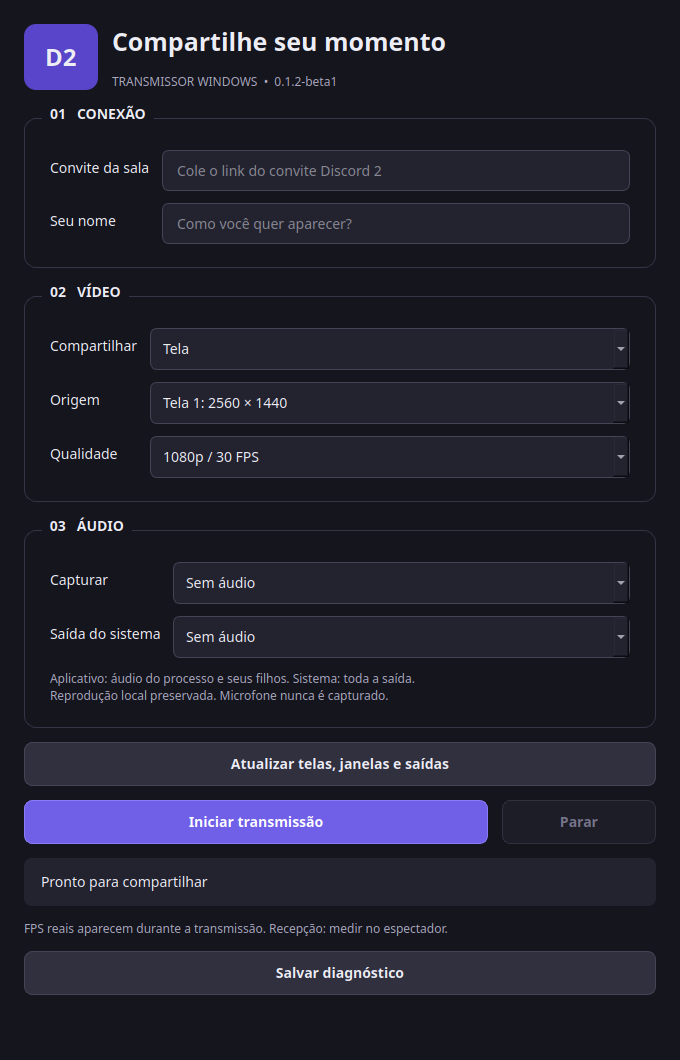
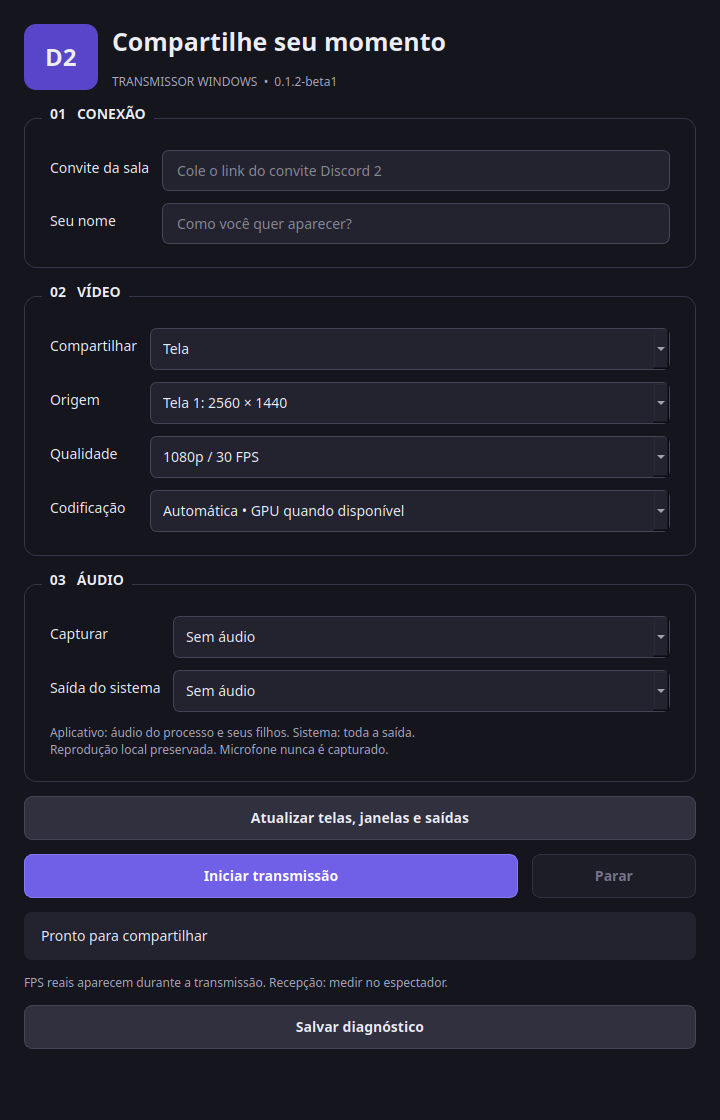
test(windows): verify responsive stop and add encoder compatibility diagnostics

diff --git a/desktop/transmissor-windows/tests/receiver-console.js b/desktop/transmissor-windows/tests/receiver-console.js
@@ -1,0 +1,32 @@
+// Run in the spectator's DevTools Console while the video is visible.
+// Local instrumentation only; no deployment, account access, media or network requests.
+// Returns counters for the video element, not inbound RTP packets.
+(() => {
+  const video = [...document.querySelectorAll('video')].find(v => v.videoWidth > 0);
+  if (!video?.requestVideoFrameCallback) throw Error('Abra o vídeo no espectador primeiro.');
+  let active = true, previous = null, latest = null;
+  const samples = [];
+  function frame(_now, metadata) {
+    latest = metadata;
+    if (active) video.requestVideoFrameCallback(frame);
+  }
+  video.requestVideoFrameCallback(frame);
+  const interval = setInterval(() => {
+    const now = performance.now(), quality = video.getVideoPlaybackQuality();
+    const current = {time: now, presented: latest?.presentedFrames ?? null,
+      total: quality.totalVideoFrames, dropped: quality.droppedVideoFrames};
+    if (previous) {
+      const seconds = (now - previous.time) / 1000;
+      const sample = {seconds: Number(seconds.toFixed(3)), width: video.videoWidth, height: video.videoHeight,
+        videoPipelineFps: (current.total - previous.total) / seconds,
+        presentedFps: current.presented === null || previous.presented === null ? null : (current.presented - previous.presented) / seconds,
+        droppedFrames: current.dropped - previous.dropped,
+        pageVisible: document.visibilityState === 'visible'};
+      samples.push(sample); if (samples.length > 1800) samples.shift();
+      console.table([sample]);
+    }
+    previous = current;
+  }, 2000);
+  window.d2ReceiverDiagnostics = {samples, stop() {active = false; clearInterval(interval);}};
+  return 'Ativo. Parar: d2ReceiverDiagnostics.stop(). Resultados: d2ReceiverDiagnostics.samples. FPS RTP/decodificado: consultar webrtc-internals.';
+})();

diff --git a/desktop/transmissor-windows/d2win/session.py b/desktop/transmissor-windows/d2win/session.py
@@ -19,7 +19,7 @@ class Session:
         self.report = {'schema': 2, 'platform': 'windows', 'profile': config.profile,
                        'acquired': False, 'releaseConfirmed': False, 'disconnected': False,
                        'captureClosed': False, 'tracksClosed': False, 'sourcesClosed': False,
-                       'encodedRejected': 0, 'videoSubmitted': 0, 'audioSubmitted': 0, 'staleDropped': 0,
+                       'hardwareEncoded': 0, 'encodedRejected': 0, 'videoSubmitted': 0, 'audioSubmitted': 0, 'staleDropped': 0,
                        'samples': [], 'captureObserved': False, 'audioObserved': False, 'synthetic': False}
         self.failure = None
         self.telemetry = telemetry or (lambda _: None)
@@ -81,7 +81,7 @@ class Session:
             self.report['stage'] = 'publish-video'
             # Probe only after authentication and exclusive reservation. Test doubles
             # keep using the original raw source contract.
-            if hasattr(rtc, 'EncodedVideoSource'):
+            if self.config.encoder_mode == 'auto' and hasattr(rtc, 'EncodedVideoSource'):
                 from .encoder import select_encoder
                 encoder, attempts = await asyncio.to_thread(select_encoder, media)
                 self.report['encoderProbe'] = attempts
@@ -129,6 +129,8 @@ class Session:
                 def native_submit():
                     if encoder:
                         payload, key = encoder.encode(data, timestamp, video.take_feedback())
+                        self.report['hardwareEncoded'] += 1
+                        self.report['hardwareEncodeMs'] = encoder.last_encode_ms
                         frame = rtc.EncodedVideoFrame(payload, media['width'], media['height'], rtc.VideoCodec.H264,
                             rtc.EncodedFrameType.ENCODED_FRAME_KEY if key else rtc.EncodedFrameType.ENCODED_FRAME_DELTA, timestamp)
                         if not video.capture_frame(frame):
@@ -136,7 +138,6 @@ class Session:
                             # The next accepted AU must not depend on a rejected P frame.
                             encoder.force_keyframe = True
                             return False
-                        self.report['hardwareEncodeMs'] = encoder.last_encode_ms
                     else:
                         video.capture_frame(rtc.VideoFrame(media['width'], media['height'], rtc.VideoBufferType.I420, data), timestamp_us=timestamp)
                     return True
@@ -179,6 +180,8 @@ class Session:
                 while not self.cancel.is_set():
                     sample = await diagnostics.sample(track, self.capture, self.report)
                     if encoder:
+                        sample['encodedFps'] = sample['externalEncodedFps']
+                        sample['encodeMs'] = None
                         sample['encoder'] = encoder.name
                         sample['hardwareEncodeMs'] = self.report.get('hardwareEncodeMs')
                     sample['submitMs'] = self.report.get('lastSubmitMs')

diff --git a/desktop/transmissor-windows/d2win/ui.py b/desktop/transmissor-windows/d2win/ui.py
@@ -81,7 +81,7 @@ class App(Controller):
         self.discovery = None; self.executor = ThreadPoolExecutor(max_workers=1, thread_name_prefix='d2-devices')
         outer = W.QVBoxLayout(self.window); outer.setContentsMargins(0, 0, 0, 0)
         scroll = W.QScrollArea(); scroll.setWidgetResizable(True); scroll.setFrameShape(W.QFrame.Shape.NoFrame)
-        content = W.QWidget(); content.setMinimumHeight(960)
+        content = W.QWidget(); content.setMinimumHeight(1020)
         scroll.setWidget(content); outer.addWidget(scroll)
         layout = W.QVBoxLayout(content); layout.setContentsMargins(24, 24, 24, 24); layout.setSpacing(14)
         header = W.QHBoxLayout()
@@ -108,6 +108,7 @@ class App(Controller):
         self.kind = combo(form, 'Compartilhar', ['Tela', 'Janela'])
         self.target = combo(form, 'Origem', [])
         self.quality = combo(form, 'Qualidade', ['720p / 30 FPS', '1080p / 30 FPS', '1080p / 60 FPS'], 1)
+        self.encoder = combo(form, 'Codificação', ['Automática • GPU quando disponível', 'LiveKit • compatibilidade'])
         form = group('03   ÁUDIO')
         self.audio_mode = combo(form, 'Capturar', ['Aplicativo selecionado', 'Sistema inteiro', 'Sem áudio'], 2)
         self.audio = combo(form, 'Saída do sistema', ['Sem áudio'])
@@ -164,7 +165,7 @@ class App(Controller):
             v = sample.get(key)
             return '—' if v is None else f'{v:.1f}'
         self.metrics_label.setText(f"FPS capturados {value('capturedFps')}  •  enviados ao SDK {value('submittedFps')}  •  codificados {value('encodedFps')}\n"
-                                  f"Codificação {value('encodeMs')} ms  •  fila captura→SDK {value('captureToSubmitMs')} ms  •  CPU processo {value('cpuProcessPercent')}%")
+                                  f"Codificação {value('hardwareEncodeMs') if sample.get('hardwareEncodeMs') is not None else value('encodeMs')} ms  •  fila captura→SDK {value('captureToSubmitMs')} ms  •  CPU processo {value('cpuProcessPercent')}%")
 
     def save_report(self):
         if self.last_report is None:
@@ -184,5 +185,9 @@ class App(Controller):
 
 def main():
     application = W.QApplication.instance() or W.QApplication([])
-    app = App(); app.window.show()
-    application.exec()
+    try:
+        app = App(); app.window.show()
+        application.exec()
+    except Exception:
+        W.QMessageBox.critical(None, 'Discord 2 Transmissor',
+                              'Não foi possível abrir o aplicativo. Confira a instalação e use Windows 10/11 x64 atualizado.')

diff --git a/desktop/transmissor-windows/d2win/diagnostics.py b/desktop/transmissor-windows/d2win/diagnostics.py
@@ -13,11 +13,12 @@ class Diagnostics:
         now = time.monotonic()
         counters = dict(capture.metrics)
         counters['videoSubmitted'] = report['videoSubmitted']
+        counters['hardwareEncoded'] = report.get('hardwareEncoded', 0)
         previous_time, previous = self.previous or (now, counters)
         elapsed = now - previous_time
         result = {'elapsedSeconds': round(now - self.cpu_wall, 3),
                   'capturedFps': None, 'submittedFps': None, 'encodedFps': None,
-                  'receivedFps': None, 'encodeMs': None, 'encoder': None,
+                  'externalEncodedFps': None, 'receivedFps': None, 'encodeMs': None, 'encoder': None,
                   'gpuPercent': None, 'endToEndLatencyMs': None,
                   'cpuProcessPercent': round(100 * (time.process_time()-self.cpu_time) / max(.001, now-self.cpu_wall), 2),
                   'rawDropped': getattr(getattr(capture, 'raw_video', None), 'dropped', 0),
@@ -25,6 +26,7 @@ class Diagnostics:
                   'audioDropped': capture.audio.dropped,
                   'staleDropped': report['staleDropped']}
         if elapsed > 0:
+            result['externalEncodedFps'] = round((counters['hardwareEncoded']-previous['hardwareEncoded'])/elapsed, 2)
             result['capturedFps'] = round((counters.get('capturedVideo', 0)-previous.get('capturedVideo', 0))/elapsed, 2)
             result['submittedFps'] = round((counters['videoSubmitted']-previous['videoSubmitted'])/elapsed, 2)
         self.previous = now, counters
@@ -38,6 +40,8 @@ class Diagnostics:
                 wrapper = stat.outbound_rtp
                 outbound = wrapper.outbound
                 if wrapper.stream.kind != 'video':
+                    continue
+                if not outbound.HasField('frames_encoded'):
                     continue
                 frames, seconds = outbound.frames_encoded, outbound.total_encode_time
                 if self.previous_rtc:

diff --git a/desktop/transmissor-windows/tests/test_session.py b/desktop/transmissor-windows/tests/test_session.py
@@ -98,3 +98,33 @@ class Lifecycle(unittest.IsolatedAsyncioTestCase):
             self.assertTrue(session.report['captureClosed']);self.assertTrue(session.report['releaseConfirmed'])
             self.assertTrue(session.report['sourcesClosed']);self.assertTrue(session.report['tracksClosed'])
             self.assertEqual(backend.released,1)
+
+    async def test_slow_video_submission_does_not_block_loop_and_is_drained_on_stop(self):
+        import threading
+        import time
+        from d2win.media import now_us
+        entered=threading.Event();finished=threading.Event();sources=[]
+        class Video(Source):
+            def __init__(self,*args,**kwargs):
+                super().__init__(*args,**kwargs);sources.append(self)
+            def capture_frame(self,*args,**kwargs):
+                entered.set();time.sleep(.1)
+                if self.closed:raise AssertionError('Disposed while submitting')
+                finished.set()
+        class ActiveCapture(Capture):
+            def start(self):self.video.put((bytes(12),now_us()))
+        room=FakeRoom();backend=FakeBackend(None);rtc=sdk(room)
+        rtc.VideoSource=Video;rtc.VideoFrame=lambda *args:args
+        rtc.VideoBufferType=types.SimpleNamespace(I420=0)
+        session=Session(configuration('https://example.test/sala/'+'a'*64,'Vivi','720p30'),None,None,
+                        lambda _:None,ActiveCapture,lambda _:backend,rtc)
+        running=asyncio.create_task(session.run())
+        async with asyncio.timeout(3):
+            while not entered.is_set():await asyncio.sleep(.005)
+            # Heartbeat can run during a native video call; stop must wait for it.
+            await asyncio.sleep(.01)
+            self.assertFalse(finished.is_set())
+            session.stop()
+            await running
+        self.assertTrue(finished.is_set());self.assertTrue(sources[0].closed)
+        self.assertTrue(session.report['releaseConfirmed'])

diff --git a/desktop/transmissor-windows/d2win/config.py b/desktop/transmissor-windows/d2win/config.py
@@ -24,13 +24,14 @@ class Config:
     room_id: str
     name: str
     profile: str
+    encoder_mode: str = 'auto'
 
     @property
     def media(self):
         return PROFILES[self.profile]
 
 
-def configuration(invite, name, profile):
+def configuration(invite, name, profile, encoder_mode='auto'):
     try:
         url = urlsplit(invite.strip())
         port = url.port  # Validate malformed port as well.
@@ -45,9 +46,9 @@ def configuration(invite, name, profile):
         raise ValueError('Cole o convite completo HTTPS /sala/… do Discord 2.') from None
     name = re.sub(' +', ' ', name.strip())
     if (not 2 <= len(name.encode('utf-16-le')) // 2 <= 24
-            or any(ord(c) < 32 or ord(c) == 127 for c in name) or profile not in PROFILES):
+            or any(ord(c) < 32 or ord(c) == 127 for c in name) or profile not in PROFILES or encoder_mode not in ('auto', 'sdk')):
         raise ValueError('Confira o nome (2 a 24 caracteres) e o perfil de qualidade.')
-    return Config(f'{url.scheme}://{url.netloc}', url.path.split('/')[2], name, profile)
+    return Config(f'{url.scheme}://{url.netloc}', url.path.split('/')[2], name, profile, encoder_mode)
 
 
 class SafeError(Exception):

diff --git a/desktop/transmissor-windows/tests/test_performance.py b/desktop/transmissor-windows/tests/test_performance.py
@@ -81,7 +81,10 @@ class Encoding(unittest.TestCase):
             for i in range(5):
                 feedback=types.SimpleNamespace(keyframe_requested=i==3,rate_control=None)
                 data,key=encoder.encode(image.tobytes(),1_000_000+i*16667,feedback)
-                if i in (0,3):self.assertTrue(key)
+                if i in (0,3):
+                    self.assertTrue(key)
+                    independent=av.CodecContext.create('h264','r')
+                    self.assertEqual(len(independent.decode(av.Packet(data))),1)
                 frame=rtc.EncodedVideoFrame(data,320,180,rtc.VideoCodec.H264,
                     rtc.EncodedFrameType.ENCODED_FRAME_KEY if key else rtc.EncodedFrameType.ENCODED_FRAME_DELTA,1_000_000+i*16667)
                 self.assertEqual(len(decoder.decode(av.Packet(frame.data))),1)

diff --git a/desktop/transmissor-windows/tests/test_core.py b/desktop/transmissor-windows/tests/test_core.py
@@ -24,6 +24,9 @@ class Configuration(unittest.TestCase):
         self.assertEqual(PROFILES['1080p60']['fps'],60)
         self.assertEqual(PROFILES['1080p30']['bitrate'],5000000)
         self.assertEqual(configuration(INVITE,' Vivi ', '1080p60').name,'Vivi')
+    def test_encoder_choice_is_explicit_and_validated(self):
+        self.assertEqual(configuration(INVITE,'Vivi','1080p60','sdk').encoder_mode,'sdk')
+        with self.assertRaises(ValueError):configuration(INVITE,'Vivi','720p30','unknown')
     def test_invalid_invites_and_names(self):
         for invite in [INVITE+'?token=x', INVITE+'#x',INVITE.replace('https:','http:'),
                        INVITE.replace('https://','https://u:p@'), INVITE+'/', 'file:///sala/'+'a'*64]:

diff --git a/desktop/transmissor-windows/tests/test_ui.py b/desktop/transmissor-windows/tests/test_ui.py
@@ -3,7 +3,6 @@ import importlib.util
 from pathlib import Path
 import sys
 import threading
-import types
 import unittest
 from unittest.mock import Mock, patch
 sys.path.insert(0,str(Path(__file__).resolve().parents[1]))
@@ -22,8 +21,7 @@ class Value:
 
 spec=importlib.util.spec_from_file_location('d2win.ui_fixture',Path(__file__).resolve().parents[1]/'d2win/controller.py')
 ui=importlib.util.module_from_spec(spec)
-tk=types.ModuleType('tkinter');tk.ttk=types.SimpleNamespace(Combobox=Combo);tk.messagebox=Mock()
-with patch.dict(sys.modules,{'tkinter':tk}):spec.loader.exec_module(ui)
+spec.loader.exec_module(ui)
 
 def window():
     app=ui.Controller.__new__(ui.Controller)

diff --git a/desktop/transmissor-windows/d2win/encoder.py b/desktop/transmissor-windows/d2win/encoder.py
@@ -12,7 +12,7 @@ from .config import SafeError
 # from automatic hardware detection rather than mislabel it as acceleration.
 CANDIDATES = ('h264_nvenc', 'h264_qsv', 'h264_amf')
 OPTIONS = {
-    'h264_nvenc': {'preset': 'p1', 'tune': 'ull', 'rc': 'cbr', 'zerolatency': '1', 'forced-idr': '1'},
+    'h264_nvenc': {'preset': 'p1', 'tune': 'ull', 'rc': 'cbr', 'zerolatency': '1', 'forced-idr': '1', 'delay': '0', 'rc-lookahead': '0'},
     'h264_qsv': {'preset': 'veryfast', 'async_depth': '1', 'look_ahead': '0', 'forced_idr': '1'},
     'h264_amf': {'usage': 'ultralowlatency', 'quality': 'speed', 'rc': 'cbr', 'header_insertion_mode': 'idr'},
 }

diff --git a/desktop/transmissor-windows/d2win/controller.py b/desktop/transmissor-windows/d2win/controller.py
@@ -64,7 +64,8 @@ class Controller:
         if self.process:
             return
         try:
-            config = configuration(self.invite.get(), self.name.get(), ('720p30','1080p30','1080p60')[self.quality.current()])
+            config = configuration(self.invite.get(), self.name.get(), ('720p30','1080p30','1080p60')[self.quality.current()],
+                                   ('auto','sdk')[self.encoder.current()])
             target = self.target_items[self.target.current()]
             if self.target.current() < 0:
                 raise ValueError()

diff --git a/desktop/transmissor-windows/tests/preview_qt.py b/desktop/transmissor-windows/tests/preview_qt.py
@@ -9,7 +9,7 @@ from d2win.ui import App
 application=QApplication([])
 app=App(preview=True)
 app.target['values']=['Tela 1: 2560 × 1440']
-app.window.resize(680, 1060)
+app.window.resize(720, 1120)
 app.window.show();application.processEvents()
 path=Path(sys.argv[1]) if len(sys.argv)>1 else Path('ui-preview.png')
 app.window.grab().save(str(path))
